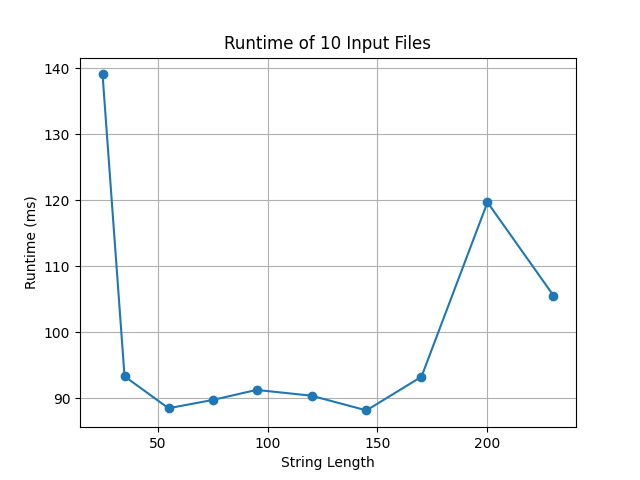
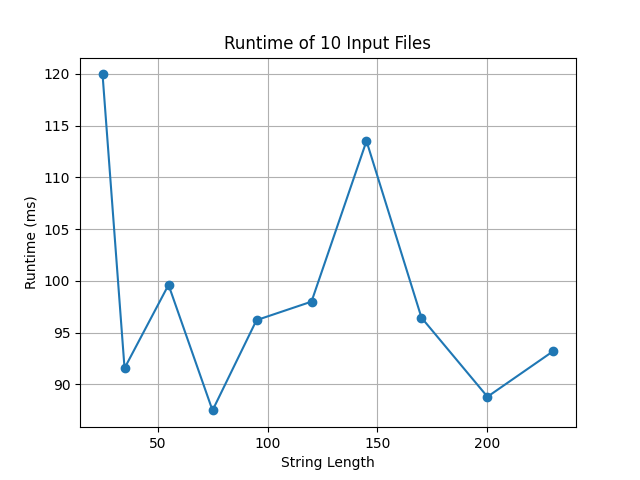
Found length in question 3 via backtracking

diff --git a/src/main.py b/src/main.py
@@ -36,6 +36,7 @@ def OPT():
     subsequence = list()
     i = n
     j = m
+    #while not at the end of either string
     while i > 0 and j > 0:
         if a[i - 1] == b[j - 1] and arr[i][j] == arr[i - 1][j - 1] + character_values[a[i - 1]]:
             #character names was added to optimal subsequence

diff --git a/README.md b/README.md
@@ -6,29 +6,31 @@ This program utilizes dynamic programming to find the optimal subsequence of str
 
 ## Repository Structure 
 ```text
-ProgAssign3
-├── data
-│ ├── example1.in
-│ ├── example2.in
-│ └── example3.in
-├── src
-│ └── generate.py
-│ └── generate.py
-│ └── generate.py
-│
-├── tests
-│ ├── test1.in
-│ └── test2.in
-│ ├── test3.in
-│ └── test4.in
-│ ├── test5.in
-│ └── test6.in
-│ ├── test7.in
-│ └── test8.in
-│ ├── test9.in
-│ └── test10.in
-│
-└── README.md
+ProgAssign3/
+├── README.md
+├── runtimes/
+│   ├── graph.png
+│   └── runtimes.csv
+├── src/
+│   ├── main.py
+│   ├── measure.py
+│   └── generate.py
+├── tests/
+│   └── question1/
+│       ├── test1.in
+│       ├── test2.in
+│       ├── test3.in
+│       ├── test4.in
+│       ├── test5.in
+│       ├── test6.in
+│       ├── test7.in
+│       ├── test8.in
+│       ├── test9.in
+│       └── test10.in
+│   ├── given_example.in
+│   ├── xexample1.py
+│   ├── xexample2.py
+└── 
 ```
 
 ## Initial Assumptions
@@ -41,7 +43,7 @@ python src/main.py tests/<input_file>
 
 If successful, the output will be two printed lines. The first line is the maximum value or arr[i][j] of a common subsequence of the inputted strings. The next line contains one optimal subsequence that produces the previous value.
 
-Additionally, there are input files within the tests directory are used for the examples in Question 1. To measure their runtimes use the following command...
+Additionally, there are input files within the tests directory are used for the examples in Question 1. To measure their runtimes and place in runtime.csv in runtimes directory use the following command...
 
 python src/measure.py
 
@@ -51,9 +53,9 @@ python src/generate.py
 
 ## Question 1
 
-![Runtime Graph](runtimes\graph.png)
+![Runtime Graph](runtimes/graph.png)
 
-The above graph shows the runtime of 10 input files from tests/question 1 with increasing sizes from 25 to 230. Initial overhead shows a spike within the first few ms, but overall there's an increase in runtime as input string size increases. Specifically, one that matches O(m*n).
+The above graph shows the runtime of 10 input files from tests/question 1 with increasing sizes from 25 to 230. Initial system noise and measurement variability shows a spike within the first few ms, but overall there's an increase in runtime as input string size increases. Specifically, one that matches O(m*n).
 
 ## Question 2
 
@@ -69,16 +71,39 @@ OPT[i][j] = max(OPT(i-1,j), OPT(i,j-1)), if A[i] != B[i]
 
 ## Question 3
 
-The pseudocode would utilize the recurrence relation from question 2. Regarding data structures, it will need a 2D array of length nxm that represent the lengths of strings A and B repesctively. 
+To compute the length of HVLCS, the pseudocode would utilize the recurrence relation from question 2. Regarding data structures, it will need a 2D array of length nxm that where n and m represent the lengths of strings A and B repesctively. The array stores the optimal values As the problem asks for the length, backtracking is necessary to find the subsequence's length. 
 
-def HVLCS(A, B, vals): 
+def HVLCS(A, B, v): 
     m = length(B)
     n = length(A)
 
-    array = [] 
-    #BASE CASE: Fill with 0s
-    for i = 0 to n: 
-        OPT[i][0] = 0
-    for j = 0 to m: 
-        OPT[0][j] = 0  
+    #Base case
+    array = [] #initialized to 0
     
+    for i = 1 to n: 
+        for j = 1 to m: 
+            #match
+            if A[i-1] = B[j-1]:
+                OPT[i][j] = max(OPT[i-1][j], OPT[i][j-1], OPT[i-1][j-1] +v(A[i-1]))
+            else: 
+            #mismatch 
+                OPT[i][j] = max(OPT[i-1][j], OPT[i][j-1])
+
+    #backtrack to find sequence and return length(Sequence)
+    
+    while i > 0 and j > 0:
+        #match and max val
+        if A[i-1] == B[j-1] and OPT[i][j] == OPT[i-1][j-1] + v(A[i-1]):
+            subsequence.append(A-1)
+            i = i - 1
+            j = j - 1
+        #mismatch so move 
+        else if OPT[i-1][j] >= OPT[i][j-1]:
+            i = i - 1
+        else:
+            j = j - 1
+
+    #retur length of the subsequence and the max value or HVLCS
+    return length(subsequence), OPT[n][m]
+    
+    As the above pseudocode involves a table with (n-1)x(m-1) entries with each computed in constant time, the time complexity and space complexity are O(nm). Backtracking takes only O(n+ m) as it only moves directionally through the table. Hence, the original runtime overshadows and remaind O(nm)
